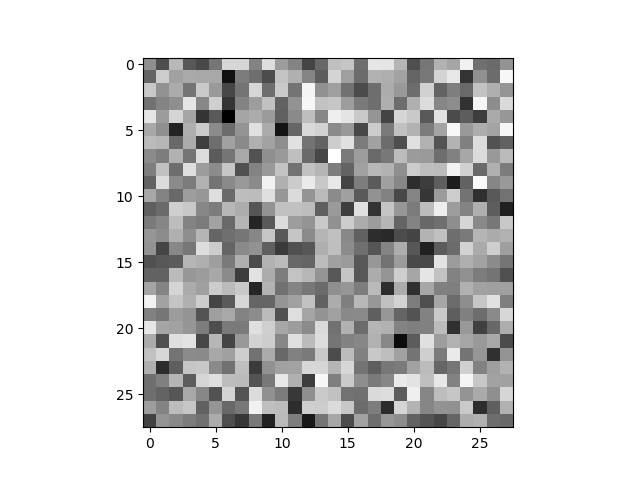
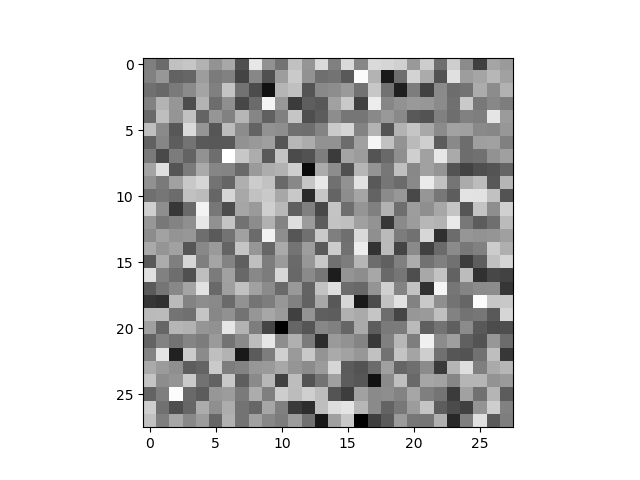
Ajout d'une autre fonction de cout (CostFunction) pour le discriminant

diff --git a/GanMnistMain.py b/GanMnistMain.py
@@ -83,6 +83,8 @@ discriminator_fake_score.append(b)
 
 for i in range(play_number):
     ganGame.playAndLearn()
+    if i%100 == 0:
+        print(i)
     a, b = ganGame.testDiscriminatorLearning(10)  # effectue n test et renvoie la moyenne des scores
     discriminator_real_score.append(a)
     discriminator_fake_score.append(b)
@@ -90,9 +92,6 @@ for i in range(play_number):
 data_interface.save(discriminator_real_score, 'discriminator_real_score')  #Sauvegarde des courbes de score
 data_interface.save(discriminator_fake_score, 'discriminator_fake_score')
 
-plt.plot(discriminator_real_score)  # afichage des courbes
-plt.plot(discriminator_fake_score)
-plt.show()
 
 image_test, associate_noise = ganGame.generateImage()  # Generation d'une image à la fin de l'apprentissage
 
@@ -100,3 +99,8 @@ image = np.reshape(image_test, [28, 28])
 
 plt.imshow(image, cmap='Greys',  interpolation='nearest')
 plt.savefig('blkwht.png')  # sauvgarde de l'image
+
+plt.clf()
+plt.plot(discriminator_real_score)  # afichage des courbes
+plt.plot(discriminator_fake_score)
+plt.show()

diff --git a/fonction.py b/fonction.py
@@ -162,3 +162,26 @@ class NonSatHeuristic(Function):
 
     def save_fun(self):
         return 'NonSatHeuritic()'
+
+class CostFunction(Function):
+
+    def __init__(self):
+        pass
+
+    def out(self, reference, output):
+        if (reference == 1):
+            return -0.5*np.log(output)
+        else:
+            return 0.5*np.log(1 - output)
+
+    ##
+    # Reference est 1 si on donne une vrai image, 0 si c'est une image virtuelle
+    ##
+    def derivate(self, reference, output):
+        if(reference == 1):
+            return -0.5/output
+        else:
+            return +0.5/output
+
+    def save_fun(self):
+        return 'CostFunction()'

diff --git a/ganGame.py b/ganGame.py
@@ -36,7 +36,7 @@ class GanGame:
             self.discriminatorLearningVirt(fake_image)
 
         for k in range(self.disc_fake_learning_ratio):
-            fake_image = self.generatorLearning()
+            fake_image = self.generateImage()
             self.discriminatorLearningVirt(fake_image)
 
         return 0
